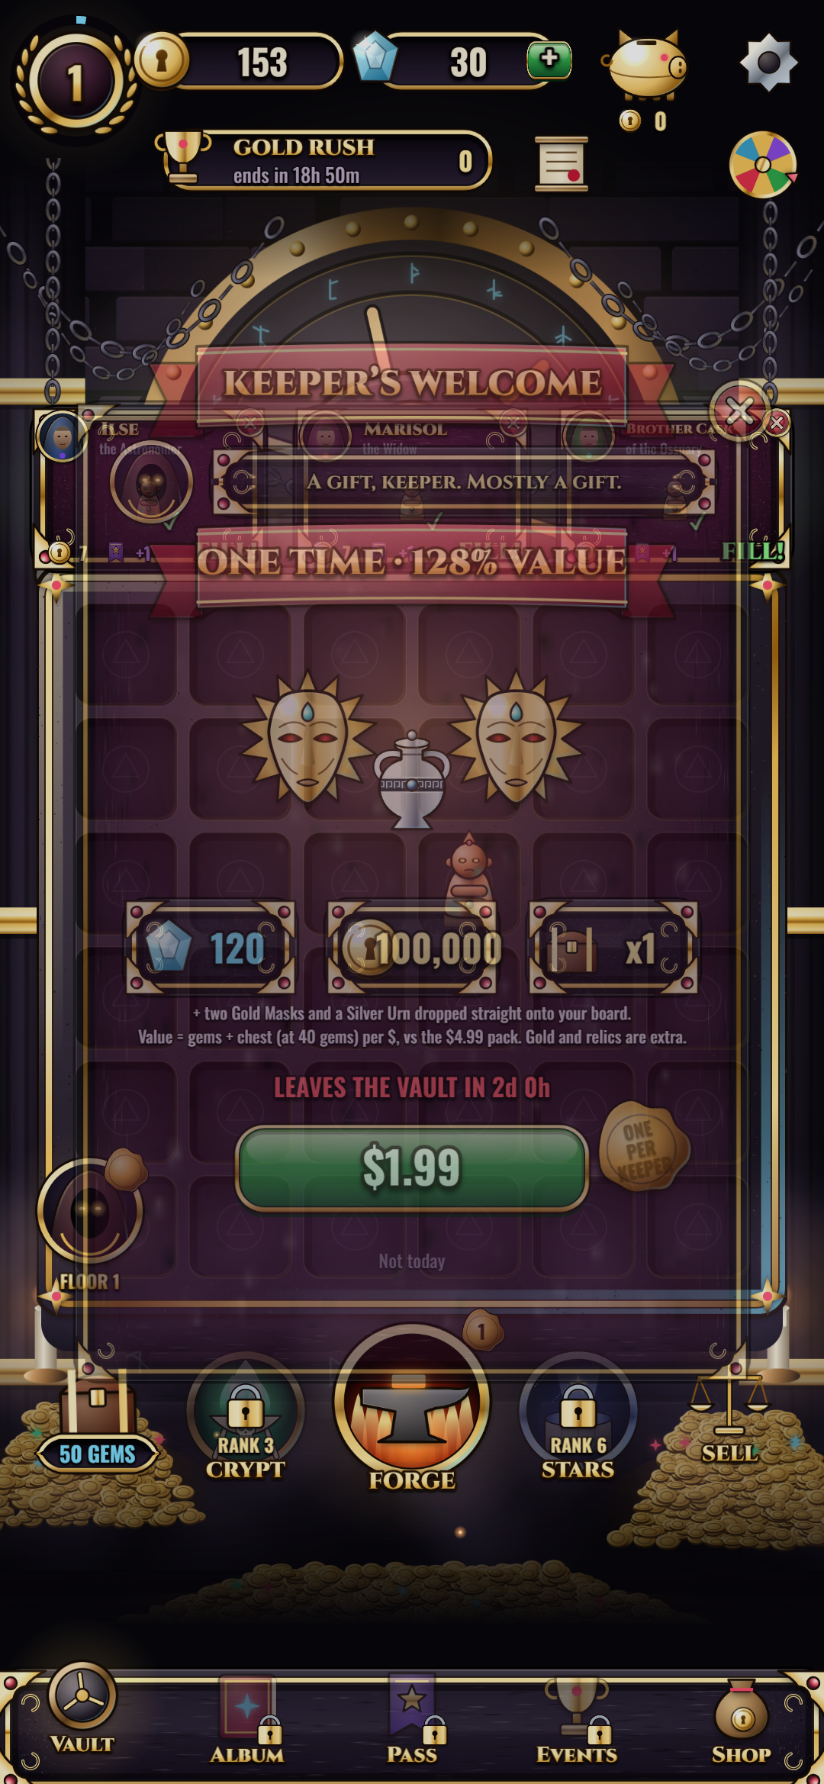
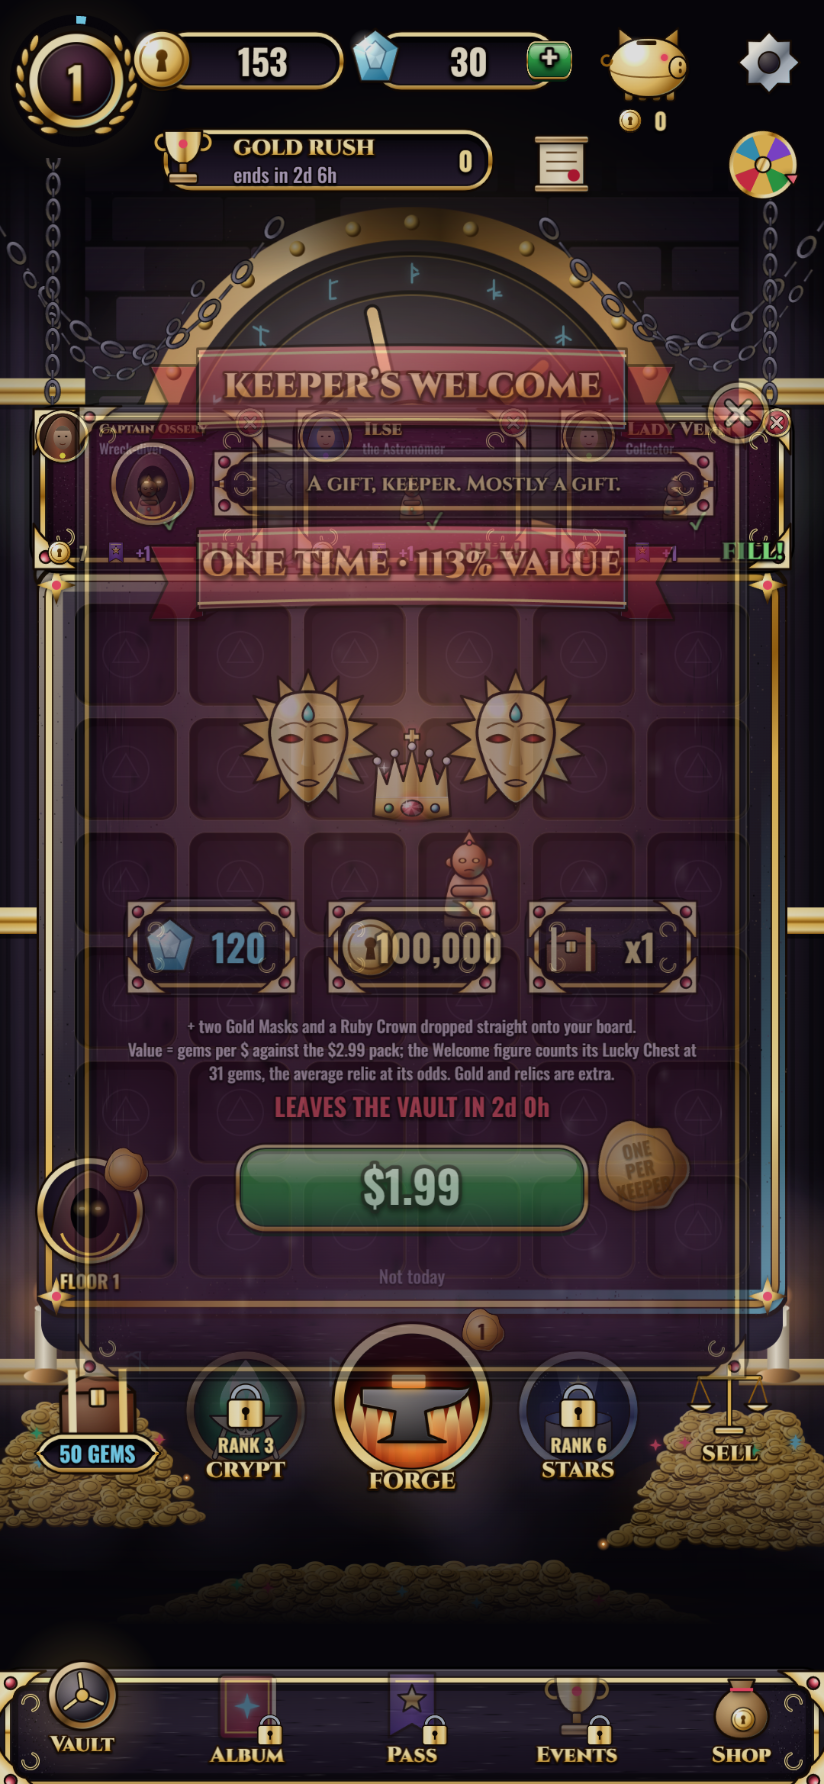
fix(offers): the Keeper's Welcome draws and names the Ruby Crown it grants AB#1814
The $1.99 Welcome modal drew two Gold Masks and a Silver Urn (relic256 'R3')
and its small print said so, while the purchase places two Gold Masks and a
Ruby Crown (Board RV-B1) and the Shop's blurb said Ruby Crown. The modal
restated the contents instead of reading them.

catalog.ts WELCOME_RELICS ([4, 4, 7]) is now the one list: applyPurchase
places it, the modal draws frame R<tier> for each entry, and its small print
is relicListText(WELCOME_RELICS) from RELICS' names ("two Gold Masks and a
Ruby Crown"). The Shop's blurb, already right, is held to the same list by a
test.

Tests: sim.test.ts (the grant equals WELCOME_RELICS; the sentence; the
Shop's blurb names each group and no Silver Urn; relicListText's counts and
articles). e2e/welcome-modal.spec.ts opens the modal in the production build
and reads what it drew: R4, R4, R7 and the Ruby Crown sentence; it fails on
main's modal (R3). screenshots/qa/ab1814-welcome-modal.png, and the smoke
suite's welcome.png, which showed the Urn, regenerated.

diff --git a/e2e/welcome-modal.spec.ts b/e2e/welcome-modal.spec.ts
@@ -1,0 +1,46 @@
+import { test, expect, Page } from '@playwright/test';
+
+/**
+ * Bug #1814: the Keeper's Welcome is a $1.99 offer. Its modal drew two Gold Masks and a Silver Urn and said so in its
+ * small print, while the purchase places two Gold Masks and a Ruby Crown (Board RV-B1) and the Shop said Ruby Crown.
+ * This opens the modal in the production build, as the bug's repro does, and reads what the game drew and wrote.
+ */
+async function boot(page: Page, errors: string[]) {
+  page.on('pageerror', (e) => errors.push(e.message));
+  page.on('console', (m) => { if (m.type() === 'error') errors.push(m.text()); });
+  await page.goto('/');
+  const gate = page.locator('#age-gate button[data-a="adult"]');
+  if (await gate.count().catch(() => 0)) await gate.click();
+  else await page.waitForTimeout(500).then(async () => { if (await gate.count()) await gate.click(); });
+  await page.waitForFunction(() => (window as any).__vault?.hud, null, { timeout: 30_000 });
+}
+
+test('the Welcome modal draws and names the Ruby Crown the pack grants (Bug #1814)', async ({ page }) => {
+  const errors: string[] = [];
+  await boot(page, errors);
+  await page.evaluate(() => { (window as any).__vault.showOffer({ id: 'welcome', trigger: 'qa' }); });
+  await page.waitForFunction(() => (window as any).__vault.modal?.kind === 'WelcomePack', null, { timeout: 6000 });
+  await page.waitForTimeout(600); // the modal's entrance
+
+  const drawn = await page.evaluate(() => {
+    const all: any[] = [];
+    const walk = (o: any) => { all.push(o); (o.list || []).forEach(walk); };
+    walk((window as any).__vault.modal.box);
+    return {
+      relics: all.filter((o) => o.texture?.key === 'relic256').map((o) => o.frame.name),
+      smallPrint: all.filter((o) => typeof o.text === 'string' && o.text.includes('dropped straight onto your board')).map((o) => o.text),
+    };
+  });
+  // The loot art: two Gold Masks (R4) and a Ruby Crown (R7), what applyPurchase places; no Silver Urn (R3).
+  expect(drawn.relics.slice(0, 3)).toEqual(['R4', 'R4', 'R7']);
+  expect(drawn.relics).not.toContain('R3');
+  expect(drawn.smallPrint).toHaveLength(1);
+  expect(drawn.smallPrint[0]).toContain('+ two Gold Masks and a Ruby Crown dropped straight onto your board.');
+  expect(drawn.smallPrint[0]).not.toContain('Silver Urn');
+  await page.screenshot({ path: 'screenshots/qa/ab1814-welcome-modal.png' });
+
+  // And what the Shop sells under the same name says the same.
+  const blurb = await page.evaluate(() => (window as any).__rv?.skus?.welcome?.blurb ?? null);
+  if (blurb !== null) expect(blurb).toContain('a Ruby Crown');
+  expect(errors).toEqual([]);
+});

diff --git a/apps/web/src/game/ui/WelcomePack.ts b/apps/web/src/game/ui/WelcomePack.ts
@@ -2,7 +2,7 @@ import Phaser from 'phaser';
 import { Modal, keeperLine } from './Modal';
 import { Button, txt, badge, money, dur } from './kit';
 import { ctx } from '../GameCtx';
-import { SKUS, COPY, BASELINE_SKU } from '../data/catalog';
+import { SKUS, COPY, BASELINE_SKU, WELCOME_RELICS, relicListText } from '../data/catalog';
 import { welcomeDeadline } from '../systems/Offers';
 import { chestsAllowed, skuValuePct, welcomeValueBasis } from '../systems/Economy';
 import type { VaultScene } from '../scenes/VaultScene';
@@ -35,13 +35,16 @@ export class WelcomePack extends Modal {
     B.add([rib, rt]);
     vs.tweens.add({ targets: [rib, rt], scale: { from: 1, to: 1.04 }, duration: 600, yoyo: true, repeat: -1, ease: 'Sine.InOut' });
 
-    // loot arrangement
+    // loot arrangement: the relics the purchase places (WELCOME_RELICS), two either side and the last in front
+    // (Bug #1814: this drew a Silver Urn after RV-B1 made the third a Ruby Crown)
     const loot = vs.add.container(0, top + 520);
-    const m1 = vs.add.image(-150, -20, 'relic256', 'R4').setDisplaySize(230, 230);
-    const m2 = vs.add.image(150, -20, 'relic256', 'R4').setDisplaySize(230, 230);
-    const urn = vs.add.image(0, 30, 'relic256', 'R3').setDisplaySize(190, 190);
-    loot.add([m1, m2, urn]);
-    [m1, m2, urn].forEach((o, k) => vs.tweens.add({ targets: o, y: o.y - 10, duration: 1200 + k * 200, yoyo: true, repeat: -1, ease: 'Sine.InOut' }));
+    const spots = [{ x: -150, y: -20, size: 230 }, { x: 150, y: -20, size: 230 }, { x: 0, y: 30, size: 190 }];
+    const relics = WELCOME_RELICS.map((t, k) => {
+      const at = spots[k] ?? spots[spots.length - 1];
+      return vs.add.image(at.x, at.y, 'relic256', `R${t}`).setDisplaySize(at.size, at.size);
+    });
+    loot.add(relics);
+    relics.forEach((o, k) => vs.tweens.add({ targets: o, y: o.y - 10, duration: 1200 + k * 200, yoyo: true, repeat: -1, ease: 'Sine.InOut' }));
     B.add(loot);
 
     const row = vs.add.container(0, top + 790);
@@ -56,7 +59,7 @@ export class WelcomePack extends Modal {
     });
     B.add(row);
     // Anchored by its top edge below the plates: centred, the derived sentence's third line grew up into them (Bug #678).
-    B.add(txt(vs, 0, top + 882, '+ two Gold Masks and a Silver Urn dropped straight onto your board.\n' +
+    B.add(txt(vs, 0, top + 882, `+ ${relicListText(WELCOME_RELICS)} dropped straight onto your board.\n` +
       `Value = gems per $ against the ${money(BASELINE_SKU.price)} pack; ${welcomeValueBasis(ctx.state)}. Gold and relics are extra.`,
       { size: 24, font: 'body', color: '#e8dcf0', wrap: 840, origin: [0.5, 0] }));
 

diff --git a/apps/web/src/game/systems/sim.test.ts b/apps/web/src/game/systems/sim.test.ts
@@ -18,6 +18,7 @@ import { GEMS_PER_DOLLAR_BASELINE, BASELINE_SKU } from '../data/catalog';
 import { skuValuePct, welcomeChestGems, welcomeValueBasis, CHEST_EXACT_TIER } from './Economy';
 import { ECON, SKUS, SkuId, CARDS, MAX_TIER } from '../data/catalog';
 import { EARNED_CHEST_ODDS, GEM_CHEST_ODDS, CHEST_MIN_VALUE_SHARE, RELICS, chestOddsDisclosure } from '../data/catalog';
+import { WELCOME_RELICS, relicListText } from '../data/catalog';
 import { chestEvGems } from './Economy';
 import { standings, playerPlace, cyclePrize, keeperPoints } from './Standings';
 import { TITLES, earnedTitles, unclaimedRankRewards, defaultProfile, profileName, CRESTS } from './Profile';
@@ -198,6 +199,21 @@ describe('purchases', () => {
     // Bug #367: the footer said "the $4.99 pack (66.9 gems/$)" — one pack's name beside another's rate
     expect(BASELINE_SKU.gems! / BASELINE_SKU.price).toBe(GEMS_PER_DOLLAR_BASELINE);
     expect(skuValuePct(BASELINE_SKU.id, createState())).toBe(100); // the baseline is by definition 100%
+  });
+  it('the Welcome modal, the Shop and the grant name the same relics (Bug #1814)', () => {
+    const g = applyPurchase(createState(), 'welcome', rng());
+    expect(g.relics.map((r) => r.tier)).toEqual([...WELCOME_RELICS]);
+    expect(relicListText(WELCOME_RELICS)).toBe('two Gold Masks and a Ruby Crown');
+    // The Shop's blurb was already right; it names each group the grant places, and no Silver Urn.
+    for (const part of relicListText(WELCOME_RELICS).split(' and ')) expect(SKUS.welcome.blurb).toContain(part);
+    expect(SKUS.welcome.blurb).not.toContain('Silver Urn');
+    // The modal's art and small print are checked in the running game: e2e/welcome-modal.spec.ts.
+  });
+  it('relicListText groups relics by tier in order, with counts and articles', () => {
+    expect(relicListText([3])).toBe('a Silver Urn');
+    expect(relicListText([4, 4, 4])).toBe('three Gold Masks');
+    expect(relicListText([4, 7, 3])).toBe('a Gold Mask, a Ruby Crown and a Silver Urn');
+    expect(relicListText([])).toBe('');
   });
   it('welcome pack: gems, gold, two T4 + one T7, a chest opened on purchase, one time only', () => {
     const s = createState();

diff --git a/apps/web/src/game/data/catalog.ts b/apps/web/src/game/data/catalog.ts
@@ -80,6 +80,26 @@ export interface Sku {
   random?: boolean; // contains randomized contents (loot box)
 }
 
+/**
+ * The relics the Keeper's Welcome places on the board, by tier (Board RV-B1: a Ruby Crown, not a Silver Urn). The one
+ * list the purchase grants from and the Welcome modal draws and names (Bug #1814: the modal still drew and named the
+ * Silver Urn after the grant changed).
+ */
+export const WELCOME_RELICS: readonly number[] = [4, 4, 7];
+
+const COUNT_WORDS = ['no', 'a', 'two', 'three', 'four', 'five'];
+/** "two Gold Masks and a Ruby Crown": relics by tier, grouped in order of first appearance, from RELICS' names. */
+export function relicListText(tiers: readonly number[]): string {
+  const counts = new Map<number, number>();
+  for (const t of tiers) counts.set(t, (counts.get(t) ?? 0) + 1);
+  const parts = [...counts].map(([t, n]) => {
+    const name = RELICS[t].name;
+    if (n === 1) return `${/^[AEIOU]/.test(name) ? 'an' : 'a'} ${name}`;
+    return `${COUNT_WORDS[n] ?? n} ${name}s`;
+  });
+  return parts.length > 1 ? `${parts.slice(0, -1).join(', ')} and ${parts[parts.length - 1]}` : parts[0] ?? '';
+}
+
 export const SKUS: Record<SkuId, Sku> = {
   welcome: { id: 'welcome', title: 'Keeper’s Welcome', price: 1.99, gems: 120, gold: 100000, badge: 'ONE TIME', oneTime: true,
     blurb: '120 gems, 100,000 gold, two Gold Masks, a Ruby Crown and a Lucky Chest on the house.' },

diff --git a/apps/web/src/game/systems/PurchaseService.ts b/apps/web/src/game/systems/PurchaseService.ts
@@ -1,4 +1,4 @@
-import { SKUS, SkuId } from '../data/catalog';
+import { SKUS, SkuId, WELCOME_RELICS } from '../data/catalog';
 import type { GameState } from './State';
 import type { Rng } from './Rng';
 import { placeOrStash } from './BoardSystem';
@@ -35,7 +35,7 @@ export function applyPurchase(s: GameState, sku: SkuId, rng: Rng, now = Date.now
     case 'welcome':
       s.ent.welcome = true;
       s.gems += def.gems!; s.gold += def.gold!; g.gems = def.gems!; g.gold = def.gold!;
-      for (const t of [4, 4, 7]) g.relics.push({ tier: t, index: placeOrStash(s, t, rng) }); // Board RV-B1: a Ruby Crown, not a Silver Urn
+      for (const t of WELCOME_RELICS) g.relics.push({ tier: t, index: placeOrStash(s, t, rng) }); // Board RV-B1: a Ruby Crown, not a Silver Urn
       // Bug #678, Board Decision #683 (option B): the pack is bought with money, so its chest rolls the paid odds, and
       // it opens now: a free-chest token would roll the earned odds whenever the player got round to it.
       if (chestsAllowed(s)) g.chest = openChest(s, rng, 'paid');
